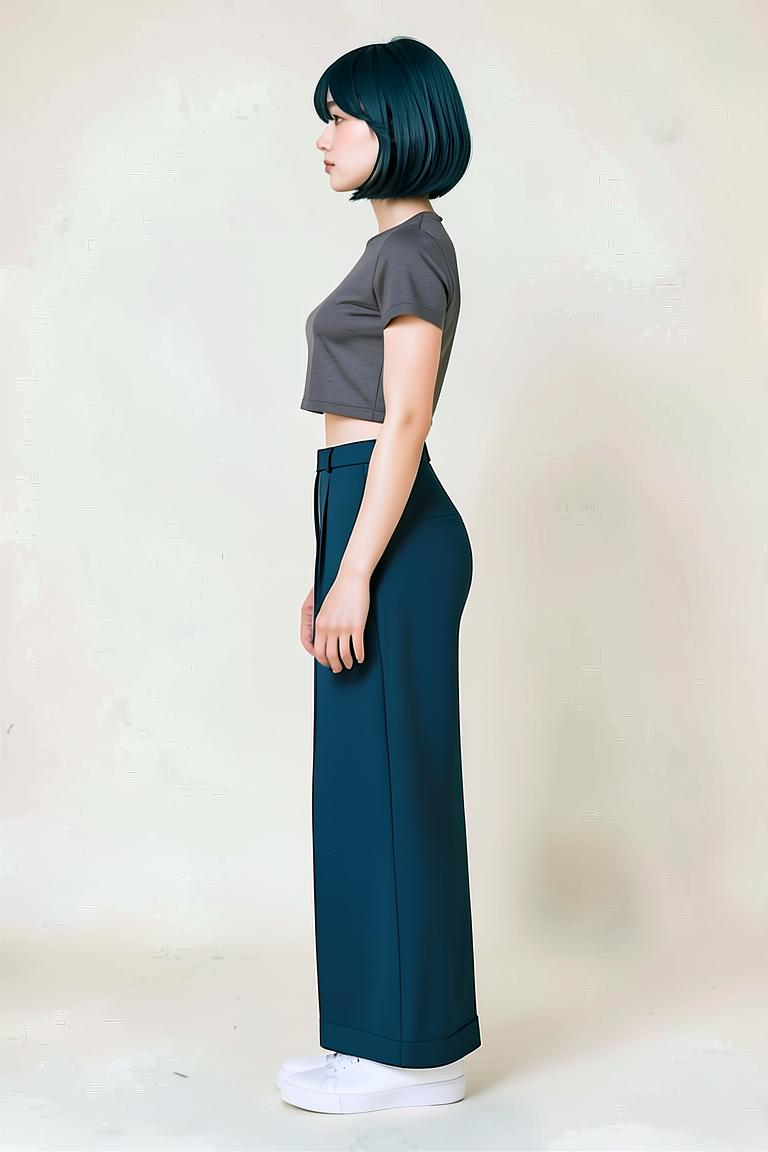
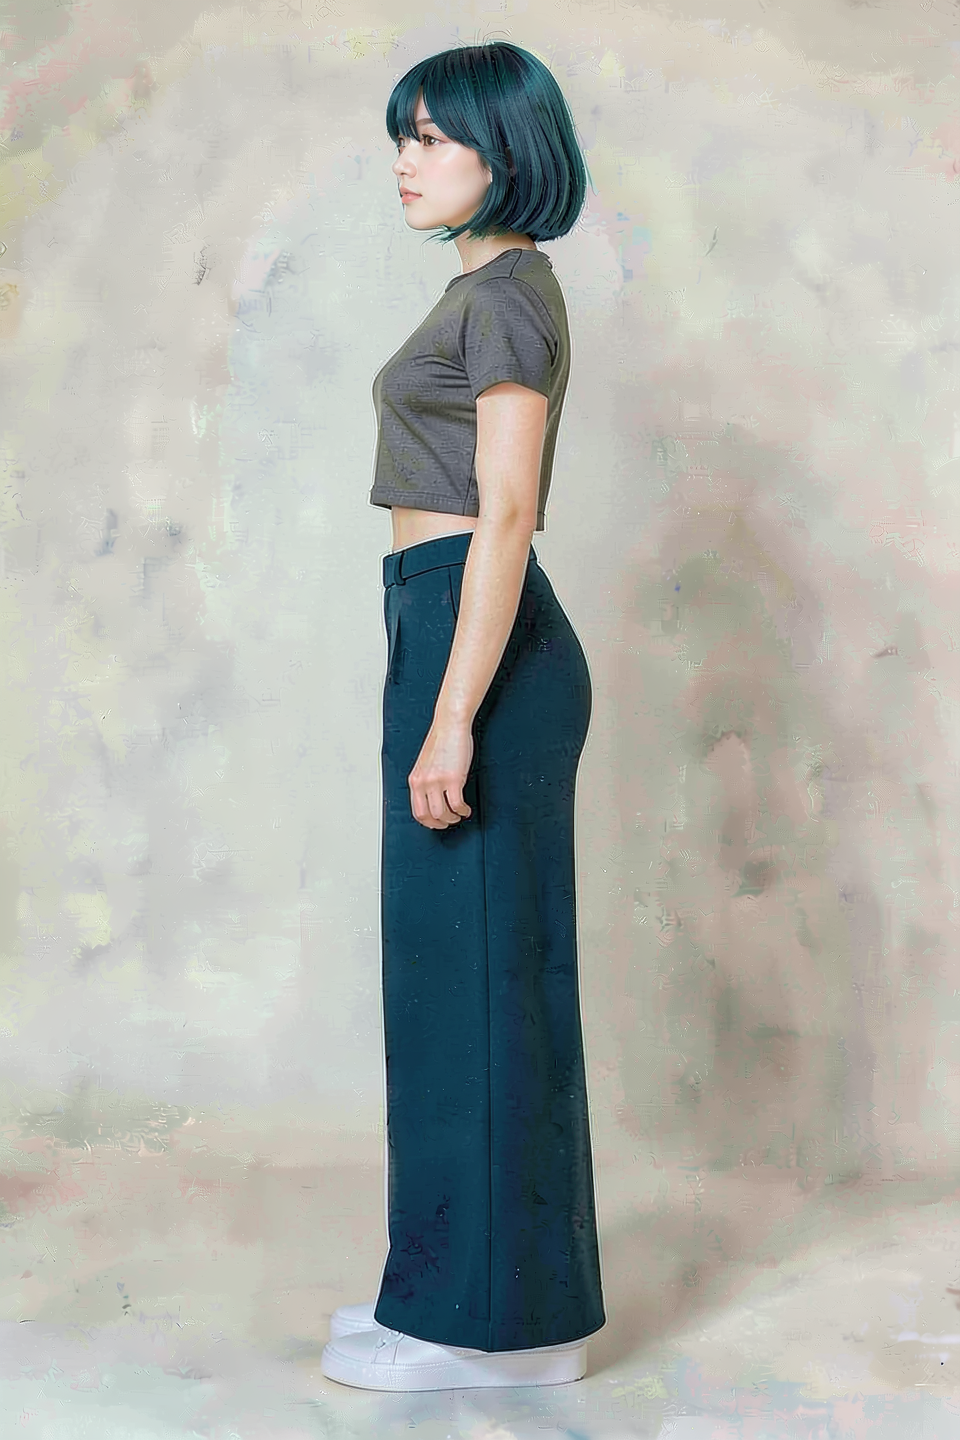
docs(p7-5.2): update turnaround references

diff --git a/docs/assets/part-07/chapter-05/p7_5_2_refine_fullbody_face_props.py b/docs/assets/part-07/chapter-05/p7_5_2_refine_fullbody_face_props.py
@@ -8,43 +8,54 @@ import gc
 import json
 from pathlib import Path
 import time
-from uuid import uuid4
 
 import torch
 from diffusers import Flux2KleinPipeline
 from PIL import Image
-from p7_5_image_output_naming import candidate_stem
+from p7_5_image_output_naming import candidate_stem, preview_callback
 
 
 ROOT = Path(__file__).resolve().parent
 MODEL_ID = "black-forest-labs/FLUX.2-klein-4B"
-BASE_SEED = 62377
-FACE_IDENTITY_SEED = 62294
+FIRST_STAGE_SEED = 62377
+SECOND_STAGE_SEED = 62294
+FIRST_STAGE_STEPS = 3
+SECOND_STAGE_STEPS = 3
 FACE_IDENTITY_CONTRACT_PATH = ROOT / "p7-5-2-face-identity-contract.json"
 FACE_IDENTITY_CONTRACT = json.loads(FACE_IDENTITY_CONTRACT_PATH.read_text(encoding="utf-8"))
+# Keep every direction explicit.  A merged ``front_quarter`` or ``profile`` key
+# silently selects a left-facing input and makes a right-facing rerun ambiguous.
 FACE_IDENTITY_BY_VIEW = {
     "front": ROOT / "p7-5-2-face-front-reference.png",
-    "front_quarter": ROOT / "p7-5-2-face-front-quarter-left-reference.png",
-    "profile": ROOT / "p7-5-2-face-profile-left-reference.png",
+    "front_quarter_left": ROOT / "p7-5-2-face-front-quarter-left-reference.png",
+    "front_quarter_right": ROOT / "p7-5-2-face-front-quarter-right-reference.png",
+    "profile_left": ROOT / "p7-5-2-face-profile-left-reference.png",
+    "profile_right": ROOT / "p7-5-2-face-profile-right-reference.png",
     "rear": ROOT / "p7-5-2-face-rear-reference.png",
 }
-# These four stable filenames are the only approved full-body composition inputs.
+# These six stable filenames are the only approved full-body composition inputs.
 APPROVED_BODY_REFERENCES = {
     "front": ROOT / "p7-5-2-fullbody-front-reference.png",
-    "front_quarter": ROOT / "p7-5-2-fullbody-front-quarter-reference.png",
-    "profile": ROOT / "p7-5-2-fullbody-profile-reference.png",
+    "front_quarter_left": ROOT / "p7-5-2-fullbody-front-quarter-left-reference.png",
+    "front_quarter_right": ROOT / "p7-5-2-fullbody-front-quarter-right-reference.png",
+    "profile_left": ROOT / "p7-5-2-fullbody-profile-left-reference.png",
+    "profile_right": ROOT / "p7-5-2-fullbody-profile-right-reference.png",
     "rear": ROOT / "p7-5-2-fullbody-rear-reference.png",
 }
 LAYERED_OUTFIT_REFERENCE_BY_VIEW = {
     "front": ROOT / "p7-5-2-prop-reference-jacket-crop-top-front.png",
-    "front_quarter": ROOT / "p7-5-2-prop-reference-jacket-crop-top-front.png",
-    "profile": ROOT / "p7-5-2-prop-reference-jacket-crop-top-front.png",
+    "front_quarter_left": ROOT / "p7-5-2-prop-reference-jacket-crop-top-front.png",
+    "front_quarter_right": ROOT / "p7-5-2-prop-reference-jacket-crop-top-front.png",
+    "profile_left": ROOT / "p7-5-2-prop-reference-jacket-crop-top-front.png",
+    "profile_right": ROOT / "p7-5-2-prop-reference-jacket-crop-top-front.png",
     "rear": ROOT / "p7-5-2-prop-reference-jacket-crop-top-rear.png",
 }
 COMPLETE_OUTFIT_REFERENCE_BY_VIEW = {
     "front": ROOT / "p7-5-2-prop-reference-complete-outfit-front-hip.png",
-    "front_quarter": ROOT / "p7-5-2-prop-reference-complete-outfit-front-hip.png",
-    "profile": ROOT / "p7-5-2-prop-reference-complete-outfit-front-hip.png",
+    "front_quarter_left": ROOT / "p7-5-2-prop-reference-complete-outfit-front-hip.png",
+    "front_quarter_right": ROOT / "p7-5-2-prop-reference-complete-outfit-front-hip.png",
+    "profile_left": ROOT / "p7-5-2-prop-reference-complete-outfit-front-hip.png",
+    "profile_right": ROOT / "p7-5-2-prop-reference-complete-outfit-front-hip.png",
     "rear": ROOT / "p7-5-2-prop-reference-complete-outfit-rear-hip.png",
 }
 PROPS = {
@@ -61,30 +72,41 @@ PROPS = {
 }
 VIEW_RULES = {
     "front": "Keep a front view facing the camera.",
-    "front_quarter": "Keep a front three-quarter view with face, torso, pelvis, knees, and feet turned together.",
-    "profile": "Keep a side profile with one near arm visible and the far arm hidden behind the torso.",
+    "front_quarter_left": "Keep a left front three-quarter view with face, torso, pelvis, knees, and feet turned together.",
+    "front_quarter_right": "Keep a right front three-quarter view with face, torso, pelvis, knees, and feet turned together.",
+    "profile_left": "Keep a left-facing side profile with one near arm visible and the far arm hidden behind the torso.",
+    "profile_right": "Keep a right-facing side profile with one near arm visible and the far arm hidden behind the torso.",
     "rear": "Keep a rear view facing away; do not show a frontal face.",
 }
 FACE_FINAL_VIEW_RULES = {
-    "front_quarter": (
+    "front_quarter_left": (
+        "For this three-quarter face, turn both pupils and the visible gaze toward the same side as the nose bridge "
+        "and nose tip. Do not leave the eyes facing front while the nose is turned."
+    ),
+    "front_quarter_right": (
         "For this three-quarter face, turn both pupils and the visible gaze toward the same side as the nose bridge "
         "and nose tip. Do not leave the eyes facing front while the nose is turned."
     ),
 }
 LAYERED_OUTFIT_VIEW_RULES = {
-    "profile": "Profile: keep the white cropped jacket as the outer layer over the gray crop top; show its collar, long sleeve, cropped hem, and side-back panel.",
+    "profile_left": "Profile: keep the white cropped jacket as the outer layer over the gray crop top; show its collar, long sleeve, cropped hem, and side-back panel.",
+    "profile_right": "Profile: keep the white cropped jacket as the outer layer over the gray crop top; show its collar, long sleeve, cropped hem, and side-back panel.",
     "rear": "Rear: use the supplied rear outfit reference as the construction anchor; keep its uninterrupted white jacket back panel, long sleeves, cropped hem, and a clear bare-skin midriff band above the trousers. No inner top is visible from the rear.",
 }
 BAG_VIEW_RULES = {
     "front": "Front: hang the bag side-on beside the wearer's outer-left trouser seam, its top at the waistband; show one continuous taut strap from the outer wearer's-right shoulder diagonally across the chest into the bag's upper inner attachment.",
-    "front_quarter": "Front three-quarter: place the bag at the outer wearer's-left hip, its top at the waistband, below the ribs and clear of the front thigh.",
-    "profile": "Profile: keep the bag at the outer wearer's-left hip with its top at the waistband, below the ribs, and keep its strap behind the jacket.",
+    "front_quarter_left": "Front three-quarter: place the bag at the outer wearer's-left hip, its top at the waistband, below the ribs and clear of the front thigh.",
+    "front_quarter_right": "Front three-quarter: place the bag at the outer wearer's-left hip, its top at the waistband, below the ribs and clear of the front thigh.",
+    "profile_left": "Profile: keep the bag at the outer wearer's-left hip with its top at the waistband, below the ribs, and keep its strap behind the jacket.",
+    "profile_right": "Profile: keep the bag at the outer wearer's-left hip with its top at the waistband, below the ribs, and keep its strap behind the jacket.",
     "rear": "Rear: retain long cuffed sleeves reaching the wrists. Show one continuous taut deep-navy canvas strap from the outer wearer's-right shoulder diagonally across the jacket back, exiting beyond the left waistband. At the outer left hip, show only a small deep-navy woven-fabric bag corner, mostly hidden behind the torso.",
 }
 COMPLETE_OUTFIT_VIEW_RULES = {
     "front": "Front: retain the bag side-on beside the wearer's outer-left trouser seam, its top aligned to the waistband, and one continuous taut strap from the outer wearer's-right shoulder diagonally across the chest into the bag's upper inner attachment.",
-    "front_quarter": "Front three-quarter: retain the bag at the outer wearer's-left hip, its top aligned to the waistband, below the ribs and clear of the front thigh.",
-    "profile": "Profile: render a visibly dominant white cropped utility-jacket body from collar to hem, including the side-back panel and one long cuffed sleeve. Show the charcoal-gray crop top only as a narrow inner layer at the open front. Keep the bag at the outer wearer's-left rearward hip, its top aligned to the waistband, with the strap behind the jacket.",
+    "front_quarter_left": "Front three-quarter: retain the bag at the outer wearer's-left hip, its top aligned to the waistband, below the ribs and clear of the front thigh.",
+    "front_quarter_right": "Front three-quarter: retain the bag at the outer wearer's-left hip, its top aligned to the waistband, below the ribs and clear of the front thigh.",
+    "profile_left": "Profile: render a visibly dominant white cropped utility-jacket body from collar to hem, including the side-back panel and one long cuffed sleeve. Show the charcoal-gray crop top only as a narrow inner layer at the open front. Keep the bag at the outer wearer's-left rearward hip, its top aligned to the waistband, with the strap behind the jacket.",
+    "profile_right": "Profile: render a visibly dominant white cropped utility-jacket body from collar to hem, including the side-back panel and one long cuffed sleeve. Show the charcoal-gray crop top only as a narrow inner layer at the open front. Keep the bag at the outer wearer's-left rearward hip, its top aligned to the waistband, with the strap behind the jacket.",
     "rear": "Rear: replace the upper garment with the supplied white cropped utility jacket: plain white back panel, long cuffed sleeves to the wrists, and bare-skin midriff below its hem; no gray inner top is visible. Show one continuous taut deep-navy canvas strap from the outer wearer's-right shoulder diagonally across the jacket back, exiting beyond the left waistband. At the outer left hip, show only a small deep-navy woven-fabric bag corner, mostly hidden behind the torso.",
 }
 IMAGE_WIDTH = 768
@@ -114,14 +136,19 @@ def resolve_body_references(assignments: list[str]) -> dict[str, Path]:
     return references
 
 
-def unique_run_stem(prefix: str, view: str, run_id: str, seed: int, steps: int) -> str:
-    """Create an unused shared stem for PNG outputs and their review record."""
-    base_stem = candidate_stem(f"{prefix}-{view}", seed=seed, steps=steps, contract={"run_id": run_id, "model": MODEL_ID, "face_identity_seed": FACE_IDENTITY_SEED, "steps": steps})
+def unique_run_stem(prefix: str, view: str, outfit_seed: int, outfit_steps: int, face_steps: int, contract: dict[str, object]) -> str:
+    """Create an unused shared stem for both stages and their review record."""
+    base_stem = candidate_stem(
+        f"{prefix}-{view}",
+        seed=outfit_seed,
+        steps=face_steps,
+        contract=contract,
+    )
     suffix = 1
     stem = base_stem
     while any(
         (ROOT / f"{stem}{extension}").exists()
-        for extension in ("-candidate.png", "-outfit-stage.png", "-review.json")
+        for extension in ("-stage-1.png", "-stage-2.png", "-final-candidate.png", "-review.json")
     ):
         suffix += 1
         stem = f"{base_stem}-attempt-{suffix}"
@@ -130,7 +157,7 @@ def unique_run_stem(prefix: str, view: str, run_id: str, seed: int, steps: int) 
 
 def prop_reference_paths(prop_id: str, view: str) -> tuple[Path, ...]:
     if prop_id == "complete_outfit":
-        if view == "profile":
+        if view.startswith("profile_"):
             # A side view needs both garment faces to preserve the jacket body panel.
             return (
                 COMPLETE_OUTFIT_REFERENCE_BY_VIEW["front"],
@@ -152,7 +179,7 @@ def build_outfit_prompt(view: str, prop_ids: tuple[str, ...]) -> str:
             f"visible face and hair identity: {FACE_IDENTITY_CONTRACT['identity_description']}"
         )
     )
-    if view == "profile" and "complete_outfit" in prop_ids:
+    if view.startswith("profile_") and "complete_outfit" in prop_ids:
         return (
             "Refine the supplied full-body reference into the same woman in a side-profile studio image. "
             f"Preserve pose, hair-to-sole framing, dark teal trousers, and white low-top sneakers. {identity_rule} "
@@ -228,7 +255,7 @@ def main() -> None:
         metavar="VIEW=PATH",
         help=(
             "Override one composition input with a PNG, for example "
-            "--body-reference profile=p7-5-2-fullbody-profile-reference.png. "
+            "--body-reference profile_left=p7-5-2-fullbody-profile-left-reference.png. "
             "Unspecified views use the approved stable references."
         ),
     )
@@ -271,6 +298,8 @@ def main() -> None:
         raise ValueError("steps must be at least 1")
     if args.stage == "face" and args.intermediate is None:
         raise ValueError("--stage face requires --intermediate")
+    if args.stage == "face" and len(args.views) != 1:
+        raise ValueError("--stage face requires exactly one --views value for the supplied intermediate PNG")
     body_references = resolve_body_references(args.body_reference)
 
     reference_paths = [FACE_IDENTITY_BY_VIEW[view] for view in args.views]

diff --git a/docs/assets/part-07/chapter-05/p7_5_2_generate_fullbody_turnaround_references.py b/docs/assets/part-07/chapter-05/p7_5_2_generate_fullbody_turnaround_references.py
@@ -20,7 +20,14 @@ MODEL_ID = "black-forest-labs/FLUX.2-klein-4B"
 FIRST_STAGE_SEED = 62294
 SECOND_STAGE_SEED = 62294
 FIRST_STAGE_STEPS = 3
-SECOND_STAGE_STEPS = 6
+SECOND_STAGE_STEPS = 9
+SECOND_STAGE_STEPS_BY_VIEW = {
+    "front_quarter_left": SECOND_STAGE_STEPS,
+    "front_quarter_right": SECOND_STAGE_STEPS,
+    "profile_left": 12,
+    "profile_right": 12,
+    "rear": SECOND_STAGE_STEPS,
+}
 BODY_SEED_BY_VIEW = {
     "front_quarter_left": FIRST_STAGE_SEED,
     "front_quarter_right": FIRST_STAGE_SEED,
@@ -66,7 +73,13 @@ def build_body_prompt(view: str) -> str:
     )
 
 
-def build_face_refinement_prompt() -> str:
+def build_face_refinement_prompt(view: str) -> str:
+    if view == "rear":
+        return (
+            "Use the supplied rear-head reference to preserve the character's hair identity in the body-stage image. "
+            "Keep the completed rear view, with only the back of the head visible and no facial features. "
+            "Keep the body pose, clothing, and background unchanged."
+        )
     return (
         "Use the supplied face reference to restore the character's face identity in the body-stage image. "
         "Keep the completed body pose, view direction, clothing, and background unchanged."
@@ -92,7 +105,11 @@ def main() -> None:
     parser.add_argument("--seed-count", type=int, default=1, help="Number of consecutive seed variants.")
     parser.add_argument("--seed-step", type=int, default=1, help="Increment between seed variants.")
     parser.add_argument("--body-steps", type=int, default=FIRST_STAGE_STEPS, help="Denoising steps for the first full-body pass.")
-    parser.add_argument("--face-steps", type=int, default=SECOND_STAGE_STEPS, help="Denoising steps for the second face-refinement pass.")
+    parser.add_argument(
+        "--face-steps",
+        type=int,
+        help="Override the direction-specific denoising steps for the second face-refinement pass.",
+    )
     parser.add_argument(
         "--body-only",
         action="store_true",
@@ -118,7 +135,7 @@ def main() -> None:
         raise ValueError("seed-count must be at least 1")
     if args.seed_step == 0:
         raise ValueError("seed-step must not be zero")
-    if args.body_steps < 1 or args.face_steps < 1:
+    if args.body_steps < 1 or (args.face_steps is not None and args.face_steps < 1):
         raise ValueError("body-steps and face-steps must both be at least 1")
     selected_views = tuple(view for view in TURNAROUND_ORDER if view in args.views)
     if not args.front_image.is_file():
@@ -154,14 +171,15 @@ def main() -> None:
         front_anchor_image = Image.open(args.front_image).convert("RGB")
         for view in selected_views:
             body_seed = BODY_SEED_BY_VIEW[view] + seed_offset
+            face_steps = args.face_steps or SECOND_STAGE_STEPS_BY_VIEW[view]
             body_prompt = args.body_prompt or build_body_prompt(view)
             body_reference_paths = [front_anchor_path, FULLBODY_REFERENCE]
             body_reference_images = [front_anchor_image, fullbody_reference_image]
-            face_refinement_prompt = None if args.body_only else build_face_refinement_prompt()
-            stem = candidate_stem(f"{args.output_prefix}-{view}", seed=body_seed, steps=args.body_steps if args.body_only else args.face_steps, contract={"model": MODEL_ID, "body_prompt": body_prompt, "face_refinement_prompt": face_refinement_prompt, "references": [path.name for path in body_reference_paths], "body_image": args.body_image.name if args.body_image else None, "body_only": args.body_only, "body_seed": body_seed, "face_seed": None if args.body_only else SECOND_STAGE_SEED, "body_steps": args.body_steps, "face_steps": None if args.body_only else args.face_steps, "size": [IMAGE_WIDTH, IMAGE_HEIGHT]})
+            face_refinement_prompt = None if args.body_only else build_face_refinement_prompt(view)
+            stem = candidate_stem(f"{args.output_prefix}-{view}", seed=body_seed, steps=args.body_steps if args.body_only else face_steps, contract={"model": MODEL_ID, "body_prompt": body_prompt, "face_refinement_prompt": face_refinement_prompt, "references": [path.name for path in body_reference_paths], "body_image": args.body_image.name if args.body_image else None, "body_only": args.body_only, "body_seed": body_seed, "face_seed": None if args.body_only else SECOND_STAGE_SEED, "body_steps": args.body_steps, "face_steps": None if args.body_only else face_steps, "size": [IMAGE_WIDTH, IMAGE_HEIGHT]})
             stage_descriptor = f"stage-1-seed-{body_seed}-steps-{args.body_steps}"
             if not args.body_only:
-                stage_descriptor += f"-stage-2-seed-{SECOND_STAGE_SEED}-steps-{args.face_steps}"
+                stage_descriptor += f"-stage-2-seed-{SECOND_STAGE_SEED}-steps-{face_steps}"
             body_output = ROOT / f"{stem}-{stage_descriptor}-stage-1.png"
             face_output = None if args.body_only else ROOT / f"{stem}-{stage_descriptor}-stage-2.png"
             output = body_output if args.body_only else ROOT / f"{stem}-{stage_descriptor}-final-candidate.png"
@@ -190,7 +208,7 @@ def main() -> None:
                     prompt=face_refinement_prompt,
                     width=IMAGE_WIDTH,
                     height=IMAGE_HEIGHT,
-                    num_inference_steps=args.face_steps,
+                    num_inference_steps=face_steps,
                     guidance_scale=1.0,
                     generator=torch.Generator(device="cpu").manual_seed(SECOND_STAGE_SEED),
                     max_sequence_length=256,
@@ -211,7 +229,7 @@ def main() -> None:
                         "body_seed": body_seed,
                         "face_seed": None if args.body_only else SECOND_STAGE_SEED,
                         "body_steps": args.body_steps,
-                        "face_steps": None if args.body_only else args.face_steps,
+                        "face_steps": None if args.body_only else face_steps,
                         "seed_offset": args.seed_offset,
                         "seed_step": args.seed_step,
                         "batch_index": batch_index,

diff --git a/management/release-notes/sections/part-07/P7-5.2.md b/management/release-notes/sections/part-07/P7-5.2.md
@@ -5,11 +5,16 @@
 
 ### v2026.08.08
 
-- 방향 전신 턴어라운드 기본 계약 통일: 좌·우 전면 쿼터·좌·우 측면·후면 모두 1차 seed `62294`, 기본 `3 step`과 2차 얼굴 아이덴티 seed `62294`, 기본 `6 step`을 공용 상수로 사용하게 했다. 좌측 전면 쿼터에 남아 있던 별도 1차 seed 예외를 제거했다.
-- 960×1440 정면 전신 기준 승인 교체: `seed=62294`에서 전신 1단계 `3 step`과 얼굴 아이덴티 2단계 `6 step`을 거친 최종 PNG를 사람 승인해 `p7-5-2-fullbody-front-reference.png` 안정 자산으로 교체했다. 이는 정면 전신 생성기의 기준이며, 별도 1-stage turnaround 정면 앵커는 유지한다.
+- 방향 전신 턴어라운드 기본 계약 통일: 좌·우 전면 쿼터·좌·우 측면·후면 모두 1차 seed `62294`, 기본 `3 step`과 2차 얼굴 아이덴티 seed `62294`, 기본 `9 step`을 공용 상수로 사용하게 했다. 좌측 전면 쿼터에 남아 있던 별도 1차 seed 예외를 제거했다.
+- 좌·우 전면 쿼터 전신 승인: 정면 turnaround 앵커를 사용해 1차 `3 step`, 2차 얼굴 identity `9 step`으로 생성한 대각선 보행 좌·우 전면 쿼터 후보를 사람 승인했다. 두 PNG를 `p7-5-2-fullbody-front-quarter-left-reference.png`와 `p7-5-2-fullbody-front-quarter-right-reference.png` 안정 자산으로 등록하고, 원고의 방향 전신 표를 좌·우 쿼터까지 드러나는 여섯 방향 표로 갱신했다. 승인 범위는 전신 프레이밍, 기본 복장·신발, 얼굴·몸통·발 방향의 연속성이다.
+- 후면 전신 승인 교체: 후면 1차 `3 step` 결과에 rear-head identity 2차 `9 step`을 적용한 후보를 사람 승인해 `p7-5-2-fullbody-rear-reference.png` 안정 자산으로 교체했다. 얼굴이 다시 나타나는 결함을 막기 위해 2차는 후두부 단발·목선·머리색만 보강하고 얼굴 특징은 금지하도록 수정했다.
+- 우측 측면 전신 승인 교체: 우측 측면 1차 `3 step`과 방향 얼굴 identity 2차 `9 step` 최종 PNG를 사람 승인해 `p7-5-2-fullbody-profile-right-reference.png` 안정 자산으로 교체했다. 승인 범위는 엄격한 화면 오른쪽 측면, 한쪽 팔의 실루엣, 두 발의 분리와 기본 복장·청록 단발의 연속성이다.
+- 좌측 측면 전신 승인 교체: 좌측 측면 1차 `3 step`과 방향 얼굴 identity 2차 `9 step` 최종 PNG를 사람 승인해 `p7-5-2-fullbody-profile-left-reference.png` 안정 자산으로 교체했다. 승인 범위는 엄격한 화면 왼쪽 측면, 한쪽 팔의 실루엣, 두 발의 분리와 기본 복장·청록 단발의 연속성이다.
+- 전신 리파인 6방향 계약 정리: `p7_5_2_refine_fullbody_face_props.py`의 `front_quarter`·`profile` 통합 view를 좌·우 전면 쿼터와 좌·우 측면의 여섯 view로 분리했다. 각 view는 같은 방향의 승인 전신·얼굴 PNG만 참조하며, 예전 네 방향 리파인 PNG는 실행 입력이 아닌 승인 사례로 원고에 구분했다. 기존 CodeFormer `2x`·화풍 참조 농구 예제 설명도 현재 원본 얼굴 참조 구조에 맞게 제거했다.
+- 960×1440 정면 전신 기준 승인 교체: `seed=62294`에서 전신 1단계 `3 step`과 얼굴 아이덴티 2단계 `6 step`을 거친 최종 PNG를 사람 승인해 `p7-5-2-fullbody-front-reference.png` 안정 자산으로 교체했다. 이는 정면 전신 생성기의 기준이며, 이후 방향 턴어라운드의 유일한 정면 앵커다.
 - 좌·우 측면 전신 재승인: 정면 turnaround 앵커에서 생성한 좌·우 엄격 측면 후보를 각각 1차 `3 step`·2차 `3 step`으로 사람 검수해 승인했다. 화면 기준 방향, 가까운 쪽 팔 실루엣, 두 발의 분리를 확인한 PNG를 `p7-5-2-fullbody-profile-left-reference.png`와 `p7-5-2-fullbody-profile-right-reference.png` 안정 자산으로 등록하고, 방향을 구분하지 못하는 기존 단일 `p7-5-2-fullbody-profile-reference.png`는 교체했다.
 - 정면·방향 전신 생성 분리: `p7_5_2_generate_fullbody_front_reference.py`가 정면 신체비율 1단계(기본 `3 step`)와 얼굴 아이덴티 2단계(기본 `6 step`)를 전담하도록 추가했다. 턴어라운드 생성기는 `--front-image`를 필수 입력으로 받아 정면을 다시 만들지 않고 나머지 다섯 방향만 생성한다.
-- 2-stage 정면 turnaround 승인·단계별 산출물: 1단계 전신 생성(`3 step`)과 2단계 얼굴 아이덴티 보강(`6 step`)을 분리하고, 각 단계 PNG와 검토 JSON을 기록하도록 바꿨다. `seed=62294`의 최종 2단계 정면 PNG를 사람 승인해 `p7-5-2-fullbody-turnaround-front-reference.png` 안정 앵커로 대체했다. 1단계 PNG는 검토용 중간 산출물이며, 개별 2단계 실행에는 `--body-image`로 기존 1단계 PNG를 입력할 수 있다. 이 새 경로는 정면을 먼저 만들고 좌·우 쿼터·좌·우 측면·후면을 정면 PNG의 캐릭터·착장·비율·프레이밍 앵커에서 파생한다. 다섯 후속 방향은 아직 별도 사람 검수 전이다.
+- 2-stage 정면 turnaround 기록: 1단계 전신 생성(`3 step`)과 2단계 얼굴 아이덴티 보강을 분리하고, 각 단계 PNG와 검토 JSON을 기록하도록 바꿨다. 1단계 PNG는 검토용 중간 산출물이며, 개별 2단계 실행에는 `--body-image`로 기존 1단계 PNG를 입력할 수 있다. 이전 `p7-5-2-fullbody-turnaround-front-reference.png`는 960×1440 정면 기준과 역할이 겹쳐 제거했고, 현재 턴어라운드는 `p7-5-2-fullbody-front-reference.png`를 유일한 정면 앵커로 사용한다.
 - CodeFormer 구조 제거: 전용 복원·2배 확대 스크립트와 `codeformer-*-2x` 입력 의존을 제거했다. 방향 전신·전신 리파인·앨리웁·스토리보드 리파인은 사람 승인한 원본 얼굴 회전 시트를 직접 identity 입력으로 사용한다.
 - 정면 얼굴 기준 재승인: 공용 identity 계약의 양쪽 홍채·눈동자 대칭 조건을 적용해 `seed=62294`, 6 step으로 생성한 정면 얼굴을 사람 승인하고 `p7-5-2-face-front-reference.png` 안정 자산으로 교체했다. 승인 범위는 정면 얼굴 identity와 얼굴 회전의 대조점에 한정한다.
 - 개별 방향 얼굴 승인·2x 입력 교체: seed `62294`, 3 step의 좌·우 전면 쿼터·좌·우 측면·후면 후보 다섯 장을 사람 승인해 안정 파일명으로 정리했다. 6방향 세트는 정면 기준과 다섯 개별 방향 PNG로 구성한다. 기존 얼굴 회전 시트와 CodeFormer `2x` 자산을 제거하고, 전신 생성·전신 리파인·앨리웁·스토리보드 리파인은 적합한 개별 얼굴 기준 또는 정면 기준을 직접 사용하도록 바꿨다.
